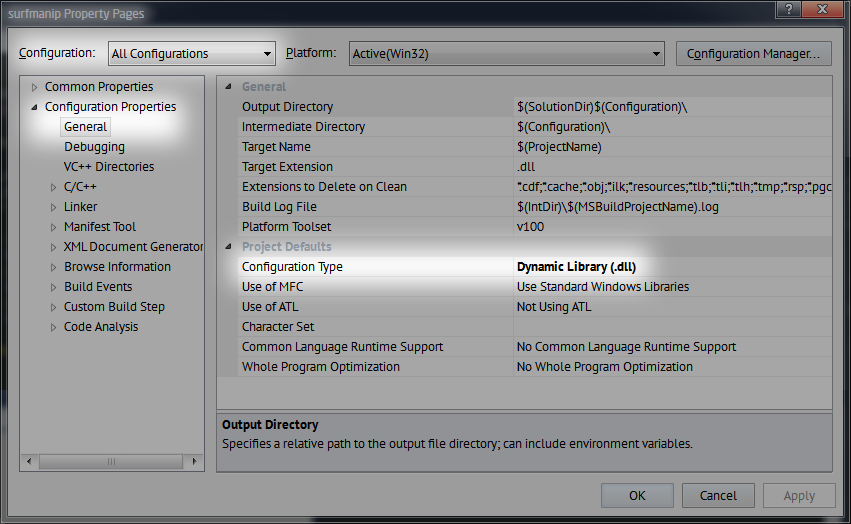
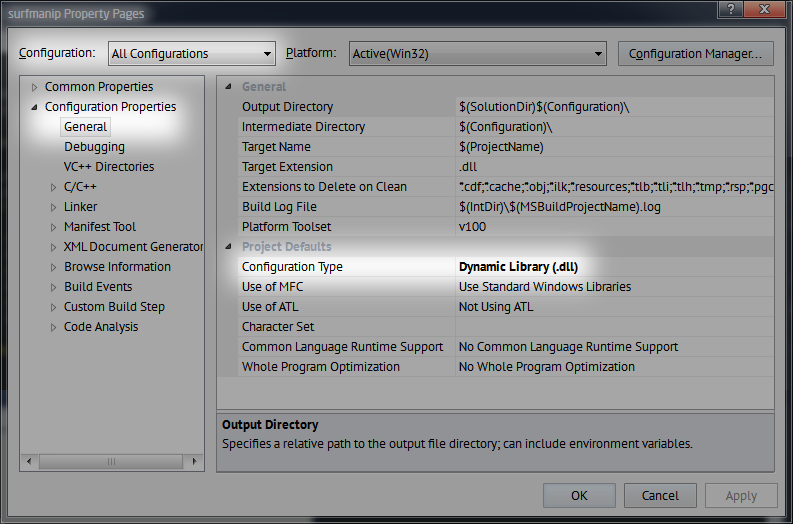
Lowered width of Visual Studio project config screenshot, and added more code to ctypes shared library import section.

diff --git a/README.md b/README.md
@@ -70,7 +70,7 @@ For simplicity, we assume the surface format is 32-bit ARGB (although it is easy
 
 ```C+
 extern "C"
-void fill_rgb_flag(unsigned char* surf_data, int surf_w, int surf_h, int surf_pitch)
+void fill_rgb(unsigned char* surf_data, int surf_w, int surf_h, int surf_pitch)
 {
     if (!surf_data) return;
 
@@ -137,7 +137,13 @@ Once the .dll file is compiled (either in the `Debug/` or `Release/` folders), p
 import ctypes
 libsurfmanip = ctypes.CDLL('/full/path/to/shared/library/libsurfmanip.so')
 
-#numpy.ctypeslib.ndpointer(ctypes.c_int)
+cpp_fill_rgb = libsurfmanip.fill_rgb
+cpp_fill_rgb.restype = None
+cpp_fill_rgb.argtypes = [ numpy.ctypeslib.ndpointer(ctypes.c_int),  # ptr to surface data
+                     ctypes.c_int,      # surface width
+                     ctypes.c_int,      # surface height
+                     ctypes.c_int ]     # surface pitch (bytes/row)
+
 ```
 
 
